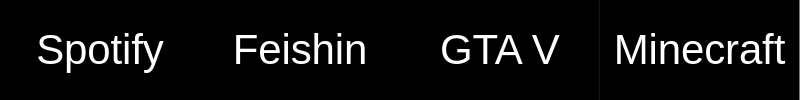
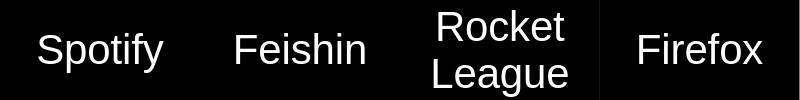
add app mute & mic mute

Changed region(s): [[0.5312, 0.09, 0.7188, 0.99], [0.75, 0.33, 1.0, 0.66]]

diff --git a/main.py b/main.py
@@ -27,13 +27,13 @@ programs = [
     },
     {
         "dial": 2,
-        "name": "GTA V",
-        "id": "Grand Theft Auto V"
+        "name": "Rocket League",
+        "id": "Rocket League"
     },
     {
         "dial": 3,
-        "name": "Minecraft",
-        "id": "java"
+        "name": "Firefox",
+        "id": "Firefox"
     }
 ]
 
@@ -43,15 +43,33 @@ programs = [
 
 # callback when dials are pressed or released
 def dial_change_callback(deck, dial, event, value):
+
+    # Application mute
     if event == DialEventType.PUSH:
-        print(f"dial pushed: {dial} state: {value}")
 
-        if dial == 3 and value:
-            deck.reset()
-            deck.close()
+        if value:
+            # run "wpctl status" and return its output
+            wpctl_shell_out = subprocess.run(["wpctl", "status"], stdout=subprocess.PIPE)
+            wpctl_string = wpctl_shell_out.stdout.decode("utf-8")
 
+            # find the line with the program's id
+            for line in wpctl_string.split("\n"):
+                if programs[dial]["id"] in line and not "pid:" in line:
+
+                    # extract the digits from the line
+                    shell_list = list(line)
+                    for i in shell_list:
+                        if i == " ":
+                            shell_list.remove(i)
+                    node_id = "".join(shell_list).split(".")[0]
+
+                    # toggle mute state
+                    subprocess.run(["wpctl", "set-mute", node_id, "toggle"], stdout=subprocess.PIPE)
+                    print(f"Toggled {programs[dial]["name"]}'s mute state. [Pipewire Node ID: {node_id}]")
+
+
+    # Application vlume control +/-
     elif event == DialEventType.TURN:
-        #print(f"dial {dial} turned: {value}")
 
         # change volume by +/-2% at a time
         if value < 0:
@@ -59,38 +77,48 @@ def dial_change_callback(deck, dial, event, value):
         else:
             value = 2
 
-        dial_volume_control(dial, value)
+        # run "wpctl status" and return its output
+        wpctl_shell_out = subprocess.run(["wpctl", "status"], stdout=subprocess.PIPE)
+        wpctl_string = wpctl_shell_out.stdout.decode("utf-8")
 
-# Adjust the volume of the program mapped to the dial
-def dial_volume_control(dial, value):
+        # find the line with the program's id
+        for line in wpctl_string.split("\n"):
+            if programs[dial]["id"] in line and not "pid:" in line:
 
-    # run "wpctl status" and return its output
-    wpctl_shell_out = subprocess.run(["wpctl", "status"], stdout=subprocess.PIPE)
-    wpctl_string = wpctl_shell_out.stdout.decode("utf-8")
+                # extract the digits from the line
+                shell_list = list(line)
+                for i in shell_list:
+                    if i == " ":
+                        shell_list.remove(i)
+                node_id = "".join(shell_list).split(".")[0]
 
-    # find the line with the program's id
-    for line in wpctl_string.split("\n"):
-        if programs[dial]["id"] in line and not "pid:" in line:
+                # get current app volume
+                wpctl_shell_out1 = subprocess.run(["wpctl", "get-volume", node_id], stdout=subprocess.PIPE)
+                program_volume = float(wpctl_shell_out1.stdout.decode("utf-8")[8:])*100
+                
+                if program_volume + float(value) > 100: 
+                    print("Cannot set volume to higher than 100.")
+                elif program_volume + float(value) < 0:
+                    print("Cannot set volume to below 0.")
+                else:
+                    program_volume = program_volume + float(value)
+                    subprocess.run(["wpctl", "set-volume", node_id, f"{str(program_volume)}%"], stdout=subprocess.PIPE)
+                    print(f"Set {programs[dial]["name"]} volume to {program_volume}. [Pipewire Node ID: {node_id}]")
 
-            # extract the digits from the line
-            shell_list = list(line)
-            for i in shell_list:
-                if i == " ":
-                    shell_list.remove(i)
-            node_id = "".join(shell_list).split(".")[0]
 
-            # get current app volume
-            wpctl_shell_out1 = subprocess.run(["wpctl", "get-volume", node_id], stdout=subprocess.PIPE)
-            program_volume = float(wpctl_shell_out1.stdout.decode("utf-8")[8:])*100
-            
-            if program_volume + float(value) > 100: 
-                print("Cannot set volume to higher than 100.")
-            elif program_volume + float(value) < 0:
-                print("Cannot set volume to below 0.")
-            else:
-                program_volume = program_volume + float(value)
-                subprocess.run(["wpctl", "set-volume", node_id, f"{str(program_volume)}%"], stdout=subprocess.PIPE)
-                print(f"Set {programs[dial]["name"]} volume to {program_volume}. [Pipewire Node ID: {node_id}]")
+def key_change_callback(deck, key, state):
+
+    if state:
+        if key == 0:
+            # Mute default microphone
+            # Run wpctl set-mute @DEFAULT_AUDIO_SOURCE@ toggle
+            subprocess.run(["wpctl", "set-mute", "@DEFAULT_AUDIO_SOURCE@", "toggle"], stdout=subprocess.PIPE)
+
+        elif key == 7:
+            # reset deck and wuit script
+            deck.reset()
+            deck.close()
+
 
 if __name__ == "__main__":
     streamdecks = DeviceManager().enumerate()
@@ -107,7 +135,9 @@ if __name__ == "__main__":
         deck.open()
         deck.reset()
 
+        # register callback functions
         deck.set_dial_callback(dial_change_callback)
+        deck.set_key_callback(key_change_callback)
 
         print(f"Opened {deck.deck_type()} | Serial number: '{deck.get_serial_number()}')")
 
